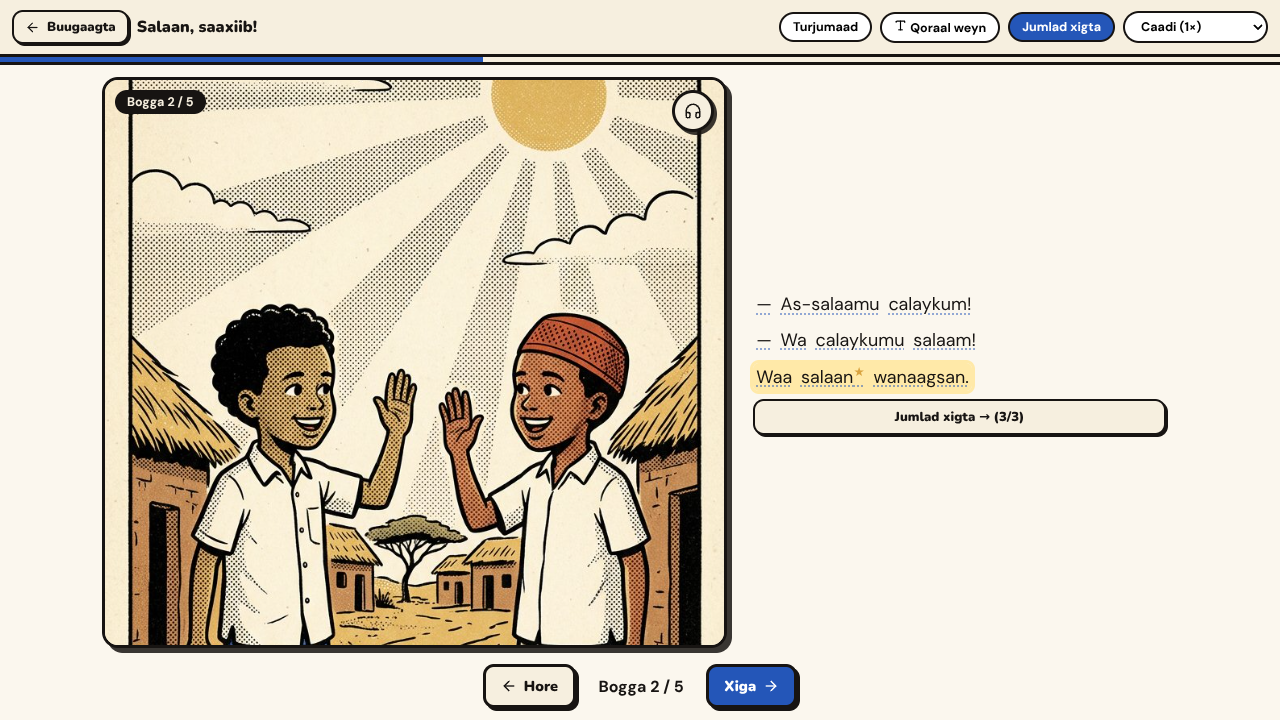
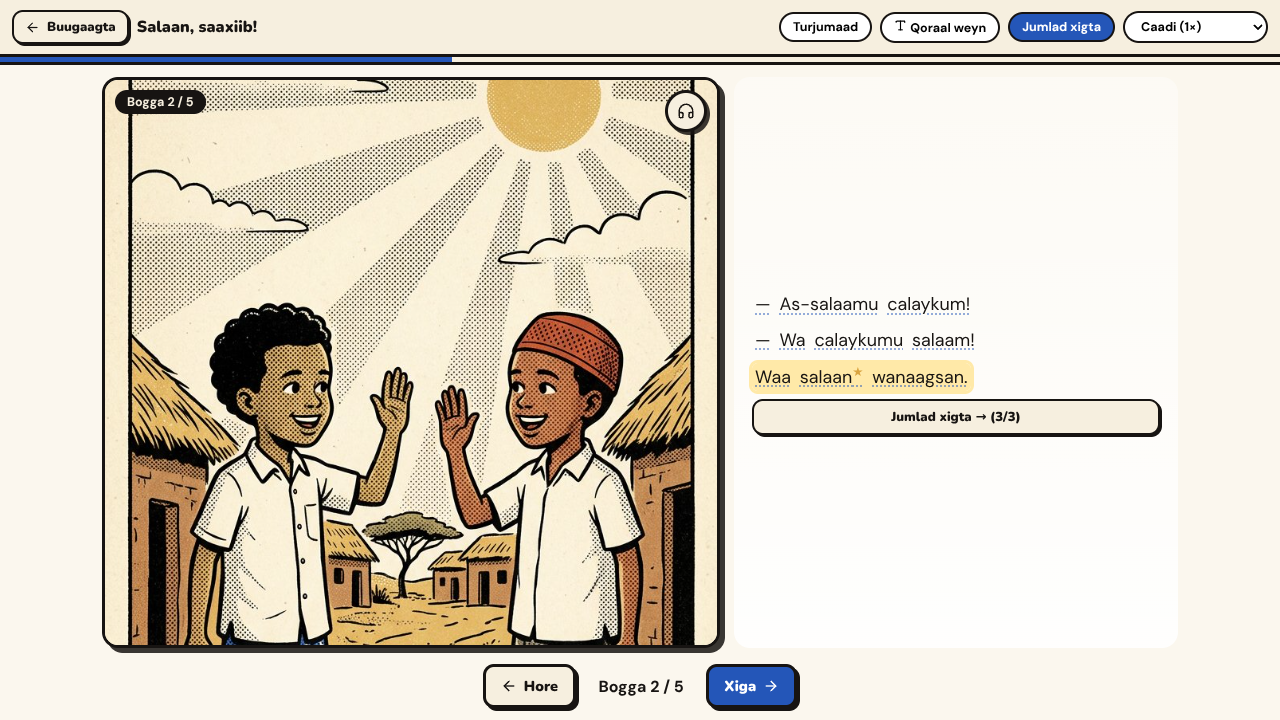
Reader text scrim + collapsible school menu
- Book reader: story text sits on a white gradient panel behind the text —
  90% white at the bottom fading to 40% at the top, so the text stays readable
  over the illustration while the image still shows through the fade
- School nav: the menu now opens and closes on phones/tablets — 'Liiska' pill
  in the brand row toggles the links (aria-expanded, Somali labels Fur/Xir liiska);
  it closes after picking a destination. Desktop keeps its persistent sidebar.

Changed region(s): [[0.0938, 0.0611, 0.8125, 0.9167], [0.9062, 0.55, 0.9375, 0.6111], [0.1562, 0.4583, 0.1875, 0.4889]]

diff --git a/src/books/books.css b/src/books/books.css
@@ -59,7 +59,7 @@
 .bk-audio-fab:hover { background: var(--bk-gold); }
 .bk-audio-fab:active { transform: translate(2px, 2px); box-shadow: 1px 1px 0 rgba(23, 20, 18, 0.85); }
 
-.bk-text-panel { position: absolute; left: 28px; right: 28px; bottom: 26px; max-height: calc(100% - 62px); overflow-y: auto; background: transparent; border: 0; padding: 0 2px; font-size: clamp(14.5px, 2.1vh + 0.3vw, 20px); line-height: 1.55; }
+.bk-text-panel { position: absolute; left: 14px; right: 14px; bottom: 14px; max-height: calc(100% - 44px); overflow-y: auto; background: linear-gradient(to top, rgba(255, 255, 255, 0.9), rgba(255, 255, 255, 0.4)); border: 0; border-radius: 16px; padding: 18px 16px 11px; font-size: clamp(14.5px, 2.1vh + 0.3vw, 20px); line-height: 1.55; }
 .bk-sentence { display: inline; border-radius: 6px; padding: 2px 1px; text-shadow: 0 0 3px rgba(255, 247, 234, 1), 0 1px 2px rgba(255, 247, 234, 1), 0 0 9px rgba(255, 247, 234, 0.95), 0 0 16px rgba(255, 247, 234, 0.8); }
 .bk-sentence.hl { background: #ffe9a8; box-shadow: 0 0 0 3px #ffe9a8; }
 .bk-word { border: 0; background: none; font: inherit; color: inherit; cursor: pointer; padding: 1px 2px; border-radius: 5px; text-decoration: underline dotted rgba(36, 86, 184, 0.55); text-underline-offset: 3px; }
@@ -82,7 +82,7 @@
 @media (min-width: 860px) {
   .bk-stage { display: flex; align-items: stretch; gap: 14px; }
   .bk-figure { position: relative; inset: auto; flex: 6 1 0; min-width: 0; }
-  .bk-text-panel { position: static; flex: 4 1 0; max-height: none; display: flex; flex-direction: column; justify-content: center; padding: 8px 12px; font-size: clamp(16px, 1.6vh + 0.5vw, 21px); }
+  .bk-text-panel { position: static; flex: 4 1 0; max-height: none; display: flex; flex-direction: column; justify-content: center; padding: 20px 18px; font-size: clamp(16px, 1.6vh + 0.5vw, 21px); }
   .bk-popover { bottom: 30px; }
 }
 

diff --git a/src/school/school.css b/src/school/school.css
@@ -4,6 +4,8 @@
 .sc-side { width: 240px; flex-shrink: 0; background: #fff7ea; border-right: 2px solid #f0e3cd; padding: 18px 14px; display: flex; flex-direction: column; gap: 8px; position: sticky; top: 0; height: 100vh; overflow-y: auto; }
 .sc-brand { display: flex; align-items: center; gap: 8px; font-family: 'Nunito', sans-serif; font-weight: 900; font-size: 19px; color: #283d37; margin-bottom: 10px; }
 .sc-brand small { display: block; font-size: 10px; letter-spacing: 1.5px; color: #b0793c; font-weight: 700; }
+.sc-nav-toggle { display: none; align-items: center; gap: 6px; margin-left: auto; border: 2px solid #283d37; background: #fff; color: #283d37; font-family: inherit; font-weight: 700; font-size: 13px; padding: 7px 12px; border-radius: 999px; cursor: pointer; box-shadow: 2px 2px 0 rgba(40, 61, 55, 0.35); }
+.sc-nav-toggle:hover { background: #f7ecd9; }
 .sc-nav { display: flex; flex-direction: column; gap: 4px; }
 .sc-nav button { display: flex; align-items: center; gap: 9px; border: 0; background: transparent; padding: 10px 12px; border-radius: 12px; font-size: 14.5px; font-family: inherit; color: #283d37; cursor: pointer; text-align: left; width: 100%; }
 .sc-nav button:hover { background: #f7ecd9; }
@@ -82,6 +84,9 @@
   .sc-shell { flex-direction: column; }
   .sc-side { width: 100%; height: auto; position: static; flex-direction: row; flex-wrap: wrap; align-items: center; }
   .sc-nav { flex-direction: row; flex-wrap: wrap; }
+  .sc-brand { flex: 1 1 100%; }
+  .sc-nav-toggle { display: inline-flex; }
+  .sc-side:not(.open) .sc-nav, .sc-side:not(.open) .sc-note { display: none; }
   .sc-main { padding: 18px 16px 50px; }
   .sc-h1 { font-size: 24px; }
 }

diff --git a/src/school/SchoolApp.tsx b/src/school/SchoolApp.tsx
@@ -130,6 +130,9 @@ export function SchoolApp() {
           <div className="sc-brand">
             <GraduationCap size={26} />
             <span>baro<span style={{ color: '#f28c28' }}>.</span><small>BARO AF-SOOMAALI · DUGSIGA</small></span>
+            <button type="button" className="sc-nav-toggle" onClick={() => setNavOpen(o => !o)} aria-label={navOpen ? 'Xir liiska' : 'Fur liiska'} aria-expanded={navOpen}>
+              {navOpen ? <X size={18} /> : <Menu size={18} />} Liiska
+            </button>
           </div>
           <nav className="sc-nav" aria-label="Liiska bogagga">
             <button className={route.name === 'home' ? 'active' : ''} onClick={() => navigate({ name: 'home' })}><Home size={18} /> Bogga hore</button>
@@ -146,10 +149,6 @@ export function SchoolApp() {
           </div>
         </aside>
         <main className="sc-main">
-          <button className="sc-btn secondary small" style={{ display: 'none' }} onClick={() => setNavOpen(!navOpen)} aria-label="Fur liiska">
-            {navOpen ? <X size={18} /> : <Menu size={18} />} Liiska
-          </button>
-
           {route.name === 'home' && (
             <HomePage
               progress={progress}
